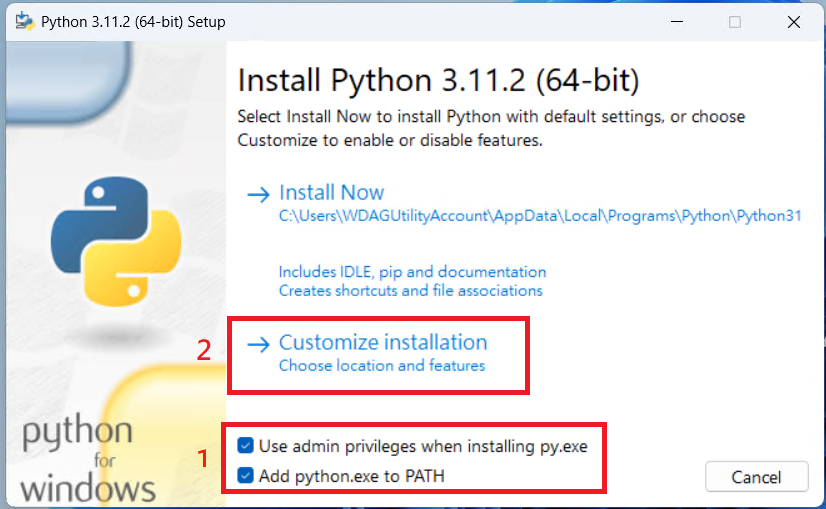
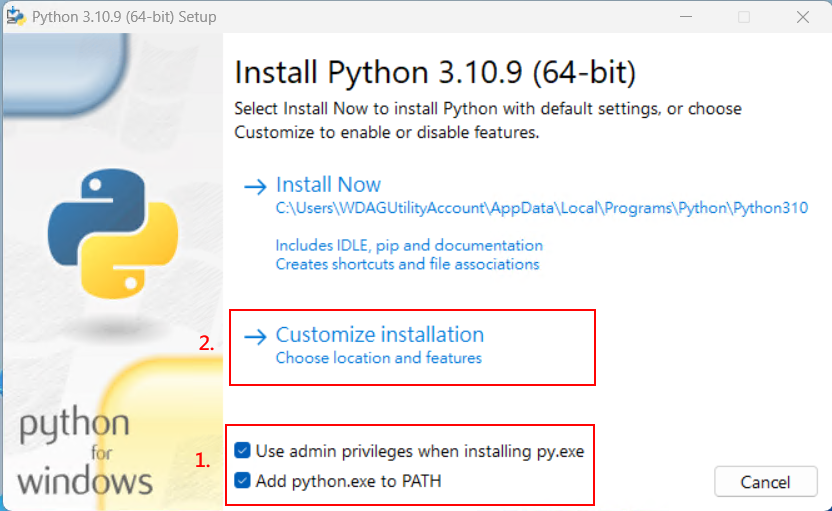
edit vscode-for-python.md

Changed region(s): [[0.0, 0.0, 1.0, 1.0], [0.2724, 0.1179, 0.908, 0.2947]]

diff --git a/study-coding/md/vscode-for-python.md b/study-coding/md/vscode-for-python.md
@@ -10,80 +10,117 @@
 5. [vs_code常用快捷鍵](https://ccutmis.github.io/study-coding/vscode-for-python.htm#ch5)
 
 -----
-<a name="ch1"></a>
-### 1. 安裝 Python
-1. 到 Python 官網 https://www.python.org/ 下載 Python 安裝檔，安裝最新版本即可。
+
+### 1. 安裝 Python <a name="ch1"></a>
+1. 到 Python 官網 https://www.python.org/ 下載 Python 安裝檔，建議下載安裝 3.10 版本。(對Github開源ai項目支援較佳)
 2. 下載完成開始安裝，勾選 Add python.exe to PATH，讓 Python 自動加入 Windows 環境變數。然後點擊 Customize installion (自訂安裝)
-	![img](images/vscode-for-python/001.png)
-	![img](images/vscode-for-python/002.png)
+
+![img](images/vscode-for-python/001.png)
+
 3. Optional Features 預設是全勾選，不需變動直接按 Next
-4. 勾選全部項目，然後將安裝位置設定到根目錄，例如 C:\Python311 ，路徑中不要有空白或-_以外的特殊符號，確定無誤後按 Install 開始安裝。
-	![img](images/vscode-for-python/003.png)
+
+![img](images/vscode-for-python/002.png)
+
+4. 勾選全部項目，然後將安裝位置設定到根目錄，例如 C:\Python310 ，路徑中不要有空白或-_以外的特殊符號，確定無誤後按 Install 開始安裝。
+
+![img](images/vscode-for-python/003.png)
+
 5. 安裝完成，回到桌面，按Win+R 開啟執行對話框，輸入 cmd 再按Enter，開啟命令提示字元(註: 在linux或macos這個叫作終端機或Terminal ，在windows裡我習慣叫它cmd ，有些人可能也會叫他dos畫面^^")
-	![img](images/vscode-for-python/004.png)
+
+![img](images/vscode-for-python/004.png)
 
 6. 在 cmd 輸入 python 若成功進入python交談介面就表示 Python 安裝執行正常，這時你可以試著打 `print('hello world')` 再按Enter 會看到它輸出 hello world ，要退出python交談介面就輸入 exit() 按Enter。
-	![img](images/vscode-for-python/005.png)
+
+![img](images/vscode-for-python/005.png)
 
 -----
-<a name="ch2"></a>
-### 2. 安裝 Visual Studio Code(之後簡稱vs_code)
+### 2. 安裝 Visual Studio Code(之後簡稱vs_code) <a name="ch2"></a>
+
 1. 到 Vscode 官網 https://code.visualstudio.com/ 下載 visual studio code 的安裝檔。
+
 2. 下載完成開啟安裝檔，將路徑設為 C:\Microsoft_VS_Code  (注意路徑中不要有空白或-_以外的特殊符號)
-	![img](images/vscode-for-python/006.png)
+
+![img](images/vscode-for-python/006.png)
+
 3. 選擇附加的工作這邊全部打勾 再按 "下一步" 然後按 "安裝"
-	![img](images/vscode-for-python/007.png)
+
+![img](images/vscode-for-python/007.png)
+
 4. 安裝完成直接啟動 Visaul Studio Code。
-	![img](images/vscode-for-python/008.png)
+
+![img](images/vscode-for-python/008.png)
+
 5. 第一次進入 vs_code 可能會覺得眼花，沒關係不用理它，直接點左上角算下來第五個圖示(四個小方塊)這個叫作延伸模組，在最上面的搜尋框輸入 chinese 搜尋， 找到 Chinese( Tradi...) 那個項目右邊的 "install" 按下去(安裝繁中介面)，安裝完會看到右下角跳出一個藍色按鈕，點它會重啟vs_code 並將介面變成繁中介面。
-	![img](images/vscode-for-python/009.png)
+
+![img](images/vscode-for-python/009.png)
+
 6. 再次進入　延伸模組　並搜尋 Python，然後安裝 "Python" 這個模組，安裝完成後點 畫面中間的 "Select a Python Interpreter"，選擇我們先前已安裝好的Python安裝路徑 。
-	![img](images/vscode-for-python/010.png)
-	![img](images/vscode-for-python/011.png)
+
+![img](images/vscode-for-python/010.png)
+
+![img](images/vscode-for-python/011.png)
+
 7. 再次進入　延伸模組　並搜尋 Python，然後安裝 "Python環境" 這個模組。 
-	![img](images/vscode-for-python/012.png)
+
+![img](images/vscode-for-python/012.png)
 
 到這裡為止，vs_code 的 python 基本開發環境已經可以運作了，下一步我們會開啟自訂資料夾並新增一個.py 文件作測試。
 
 
 -----
-<a name="ch3"></a>
-### 3. 執行 Python 程式(.py 檔案)
+
+### 3. 執行 Python 程式(.py 檔案) <a name="ch3"></a>
 
 1. 開啟檔案總管，在根目錄 C 底下新增一個資料夾 "test123"
-	![img](images/vscode-for-python/013.png)
+
+![img](images/vscode-for-python/013.png)
+
 2. 開啟 vs_code 點左上角的第二個圖示(畫二張紙的，它也叫檔案總管)，然後點 "開啟資料夾" ，選取 C:\test123，然後你會看到詢問是否信任的對話框，這裡要勾選　信任父資料夾'C:\'中所有檔案的作者 ，然後再按 "是，我信任作者"
-	![img](images/vscode-for-python/014.png)
+
+![img](images/vscode-for-python/014.png)
+
 3. 現在你會看到檔案總管最上方會多出一列小圖示，點選新增檔案，並命名為 "hello.py"，然後在 "hello.py" 裡面輸入
-	```
-	print('hello world')
-	```
-	然後按 Ctrl + S 存檔，按一下右上角的 播放按鈕(Run Code)，就會看到程式執行結果了。
-	![img](images/vscode-for-python/015.png)
+
+```
+print('hello world')
+```
+然後按 Ctrl + S 存檔，按一下右上角的 播放按鈕(Run Code)，就會看到程式執行結果了。
+
+![img](images/vscode-for-python/015.png)
 
 -----
-<a name="ch4"></a>
-### 4. 執行 Jupyter notebook 程式(.ipynb 檔案)
+
+### 4. 執行 Jupyter notebook 程式(.ipynb 檔案) <a name="ch4"></a>
 
 1. 在左側的檔案總管裡新增一個文件，命名為"hello.ipynb" (助記: IPYNB 愛py牛逼)
+
 2. 然後點兩下將它開啟，正常的話會看到有一個小格子可讓你輸入文字，格子最左邊有個播放圖示(正式名:執行儲存格)，在這小格子內輸入:
+
 ```
 print("Hello World!")
 ```
+
 3. 點播放圖示(執行儲存格) 這時會看到一個錯誤訊息視窗"執行儲存格需要 jupyter 且 notebook 套件"，這邊請 選擇 "變更解譯器"
-	![img](images/vscode-for-python/016.png)
+
+![img](images/vscode-for-python/016.png)
+
 4. 然後 點你先前安裝的 Python.exe 完整路徑(通常會是 C:\Python3xx\python.exe )
-	![img](images/vscode-for-python/017.png)
+
+![img](images/vscode-for-python/017.png)
+
 5. 然後再重新點 播放圖示(執行儲存格)，會看到另一個錯誤訊息視窗，這裡請選擇 "安裝"，右下角會看到它正在安裝套件的訊息，耐心等它一會兒，套件安裝完成之後，你會看到剛剛執行儲存格的地方已經跑出結果了，表示在vs code裡執行 jupyter notebook 的設定完成了。
-	![img](images/vscode-for-python/018.png)
-	![img](images/vscode-for-python/019.png)
-	![img](images/vscode-for-python/020.png)
+
+![img](images/vscode-for-python/018.png)
+
+![img](images/vscode-for-python/019.png)
+
+![img](images/vscode-for-python/020.png)
 
 寫程式遇到bug不用緊張，那是程式人生的一...一大部份，請依上人的建議: 接受、面對、處理、放下…如果沒辦法自行處理的很正常，上網搜尋、上ithelp發文詢問、或是問chatGPT...Q-Q找答案的過程也是一種樂趣。
 
 -----
-<a name="ch5"></a>
-### 5. vs_code常用快捷鍵
+
+### 5. vs_code常用快捷鍵 <a name="ch5"></a>
 
 在看vs_code 常用快捷鍵之前先熟悉一下整個介面，可以通過右上角的自訂版面圖示，將介面玩轉一下有個概念，再記快捷鍵才不會一頭霧水。
 (註 : 每個人使用軟體的習慣不同，當你用一段時間後你也會有你的常用快捷鍵清單，這裡只是列出筆者覺得對新手而言會常用到的)
@@ -150,12 +187,10 @@ Show Hover | Ctrl+K Ctrl+I | 除錯
 
 -----
 
-<a name="ref_url"></a>
-* 參考影片教學:
-	* https://www.youtube.com/watch?v=ifTF3ags0XI
 
-* VS_CODE_KEYBOARD_SHORTCUT_CHEAT_SHEET:
-	* https://code.visualstudio.com/shortcuts/keyboard-shortcuts-windows.pdf
+* 參考影片教學: https://www.youtube.com/watch?v=ifTF3ags0XI
+
+* VS_CODE_KEYBOARD_SHORTCUT_CHEAT_SHEET: https://code.visualstudio.com/shortcuts/keyboard-shortcuts-windows.pdf
 
 
 -----
